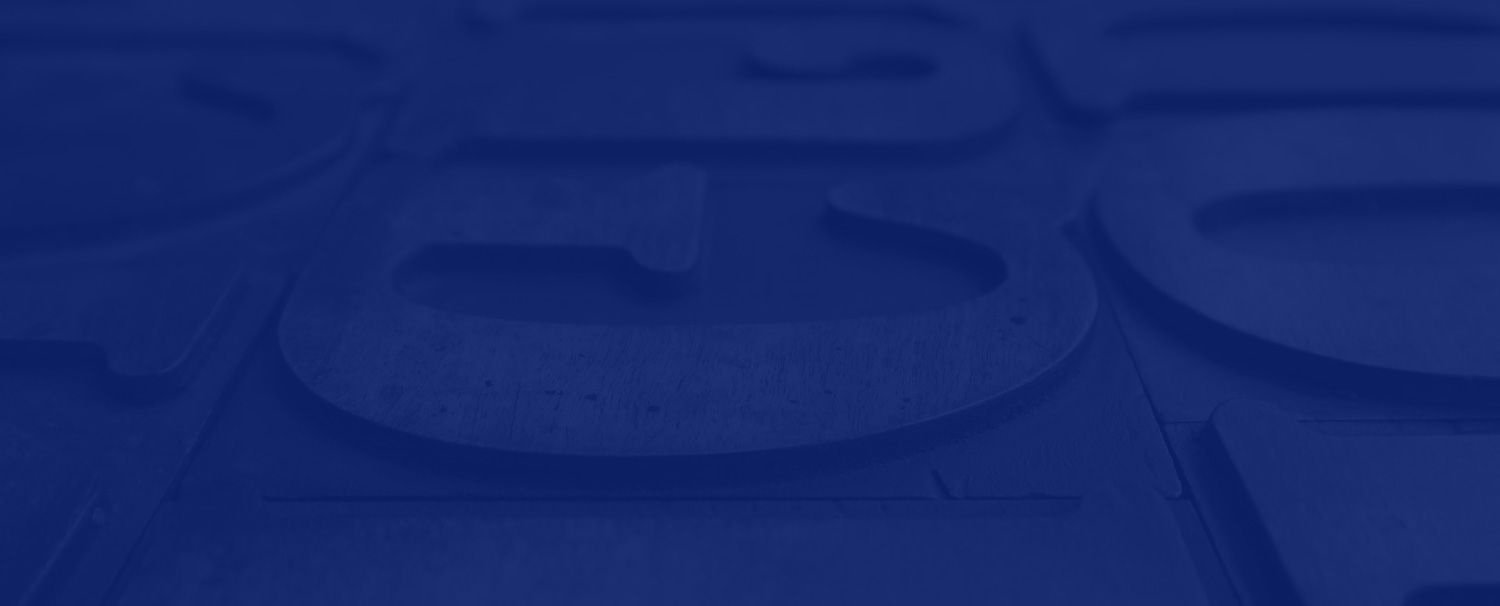
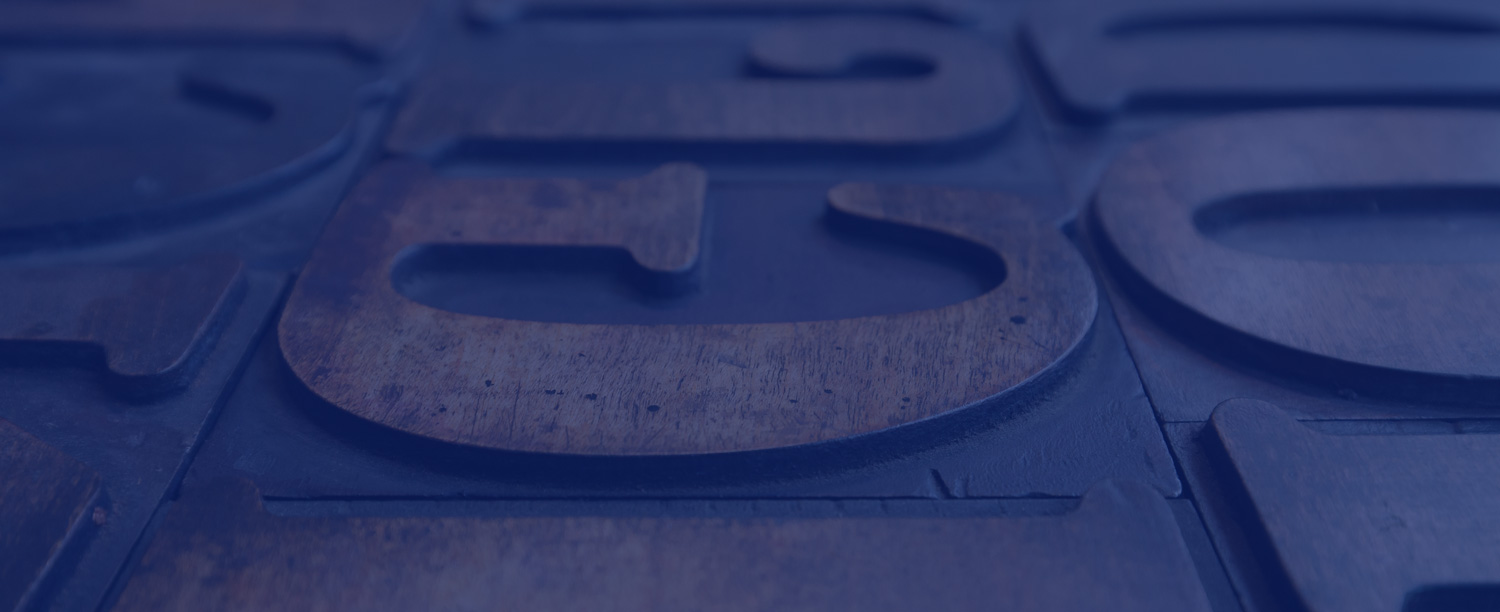
commit - uslugi caly czas slabo

diff --git a/source/css/modules/_index.scss b/source/css/modules/_index.scss
@@ -4,8 +4,8 @@
 
 .index .header {
   @include mq($bp1) { 
-    background: $primary-color url(../images/hero3b.jpg) center center no-repeat;
-    // background-position: left 100px center;
+    // background: $primary-color url(../images/hero2.jpg) center center no-repeat;    
+    background: $primary-color url(../images/hero3.jpg) center center no-repeat;    
     background-size:cover;
     position: relative;
     &:before {
@@ -15,8 +15,8 @@
       height: 100%;
       top: 0;
       left: 0;
-      background:$primary-color;
-      opacity: .5;
+      // background:$primary-color;
+      // opacity: .7;
     }
   }
 }

diff --git a/source/css/modules/_projekty.scss b/source/css/modules/_projekty.scss
@@ -45,6 +45,12 @@
 		color:$white-color;
 		position: relative;
 		z-index: 1;
+		span {
+			font-size: .5em;
+			display: block;
+			font-weight: 400;
+			margin-bottom: 5px;
+		}
 	}
 }
 
@@ -60,7 +66,9 @@
 }
 
 .projekt-senti {
-	background: #8FC9FF;
+	// background: #8FC9FF;
+	background-image:url(../images/projekty/sentione2.png);
+	background-position:bottom center;
 }
 
 .projekt-milush {

diff --git a/source/css/modules/_header.scss b/source/css/modules/_header.scss
@@ -1,6 +1,6 @@
 .header {
   background:$primary-color;
-  color:#ccc;
+  color:#eee;
   padding-top: 50px;
   // border-top: 5px solid transparent;
   h1 {
